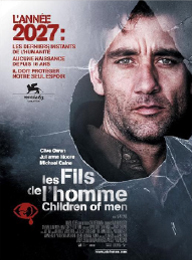
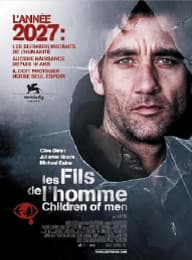
reduce images weight

diff --git a/src/data-local/2022/films.js b/src/data-local/2022/films.js
@@ -143,7 +143,7 @@ export const films = [
         duration: "1h53",
         originalTitle: null,
         theme : "Transition écologique, atout ou péril pour l'emploi ?",
-        image: { summary: "en-guerre.jpg", programmation: "en-guerre.jpeg"},
+        image: { summary: "en-guerre.jpg", programmation: "en-guerre.jpg"},
         summary: "Malgré de lourds sacrifices financiers de la part des salariés et un bénéfice record de leur entreprise, la direction de l’usine Perrin Industrie décide néanmoins la fermeture totale du site. Accord bafoué, promesses non respectées, les 1100 salariés, emmenés par leur porte‑parole Laurent Amédéo, refusent cette décision brutale et vont tout tenter pour sauver leur emploi.",
         trailer: 'qOB9mroJ1zU',
         debat: "La lutte des travailleurs ordinaires contraints de se lever contre les puissants pour améliorer leurs conditions ou préserver leur emploi est vieille comme le monde. En Guerre met en abîme ces deux mondes sur fonds de mondialisation et de laisser-faire politique. S’il ne traite pas directement des enjeux écologiques, ce film apporte une réflexion intéressante sur l'utilité du travail et la défense des emplois au regard des changements à venir. Aujourd’hui, quelques actionnaires peuvent décider de supprimer des milliers d'emplois à un endroit pour satisfaire une meilleure rentabilité des capitaux dans d’autres secteurs ou d’autres pays, moins-disant sur le plan environnemental. Dans un monde en transition, certains secteurs économiques sont amenés à fortement se réduire voire à disparaitre. Cela provoquera des pertes massives d'emplois et un chaos social si rien n'est planifié. La justice climatique ne pourra se faire sans justice sociale. Doit-on collectivement décider quelles industries il faut préserver au regard de leur impacts environnementaux et jusqu’où devons-nous aider à la reconversion ? S’agissant du caractère utile de certains métiers, quels sont ceux dont on a réellement besoin et qui nous aideront à affronter les bouleversements à venir ?",
@@ -341,7 +341,7 @@ export const films = [
         duration: "1h50",
         originalTitle: 'Children of Men',
         theme : "Réfugiés climatiques : quelles frontières dans un monde en crise ?",
-        image: { summary: "les-fils-de-l-homme.jpg", programmation: "les-fils-de-lhomme.png"},
+        image: { summary: "les-fils-de-l-homme.jpg", programmation: "les-fils-de-lhomme.jpg"},
         summary: "Dans une société futuriste où les êtres humains ne parviennent plus à se reproduire, l'annonce de la mort de la plus jeune personne, âgée de 18 ans, met la population en émoi. Au même moment, une femme tombe enceinte - un fait qui ne s'est pas produit depuis une vingtaine d'années - et devient par la même occasion la personne la plus enviée et la plus recherchée de la Terre. Un homme est chargé de sa protection... Film interdit aux moins de 12 ans.", 
         trailer: "2VT2apoX90o",
         debat: "Dans une Angleterre agonisante en 2027, Les Fils de l’homme dresse le portrait d’une société totalitaire  et  violente  où  le  gouvernement  parque certaines minorités  dans  des  camps insalubres. Par sa mise en scène réaliste et sobre, ce film rend ce futur proche de nous, un futur  déjà  porté  en  germe  par  nos  sociétés  actuelles,  notamment  en  ce  qui  concerne  les problématiques migratoires. On serait presque habitué aux images de bateaux de migrants franchissant la Méditerranée, à ceux qui meurent lors de la traversée ou encore à l’accueil parfois déshumanisé des survivants sur nos côtes. Les prévisions actuelles sur le changement climatique montrent que les pays qui seront le plus durement touchés sont ceux qui sont les plus fragiles aujourd’hui. Si la marche du monde ne change pas, des centaines de millions de personnes n’auront d’autre choix que de fuir des conditions de vie extrêmes. Comment nos sociétés  réagiront  face  à  cet  afflux  massif  de  population  alors  qu’elles  seront  très probablement   elles   aussi   confrontées   à   des  situations   climatiques   et   écosystémiques dégradées ?  Peut-on éviter que la fiction ne rejoigne la réalité et si oui comment ?",
@@ -437,7 +437,7 @@ export const films = [
         duration: "1h37",
         originalTitle: 'Soylent Green',
         theme : "Plus d'humains, moins d'humanité ?",
-        image: { summary: 'soleil-vert.jpg', programmation: "soleil-vert.jpeg"}, 
+        image: { summary: 'soleil-vert.jpg', programmation: "soleil-vert.jpg"}, 
         summary: "New York en 2022. Un brouillard a envahi la surface du globe, tuant la végétation et la plupart des espèces animales. D'un côté, les nantis qui peuvent avoir accès à la nourriture rare et très chère. De l'autre, les affamés nourris d'un produit synthétique, le soylent, rationné par le gouvernement... Lors d'une émeute, le président de soylent trouve la mort et Thorn , un flic opiniâtre, est chargé de l'enquête...", 
         trailer: "N_jGOKYHxaQ",
         debat: "Réalisé en 1973 par Richard Fleischer et adapté du roman Make room ! Make Room ! d’Harry Harrison, Soleil vert témoigne de la prise de conscience du rôle des activités humaines sur l’environnement. L’action de cette dystopie se déroule en 2022 et montre les conséquences désastreuses d’un développement industriel à marche forcée. La surconsommation  et l'épuisement des ressources naturelles ont ruiné l'avenir de l'Homme en quelques décennies. Le paroxysme de l’agonie de l'espèce humaine étant atteint avec la disparition d'un élément essentiel à son existence : la nourriture. A la fois besoin vital, source de plaisir et élément de partage social, l’alimentation est centrale dans les sociétés. Nous nous rapprochons toujours plus des limites planétaires quand nous ne les avons pas franchies et Soleil vert ressemble chaque jour un peu plus à un cauchemar prémonitoire. Le suicide collectif en cours peut-il encore être évité par l’action collective ? Si oui,  quelle  organisation  sociétale,  quels  modes  de  production  agricoles  et  quel  régime alimentaire  doit-on  adopter  pour  que  nous  puissions  encore  apprécier notre  nourriture  et notre existence dans le futur ?",
